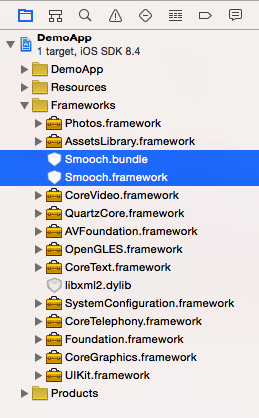
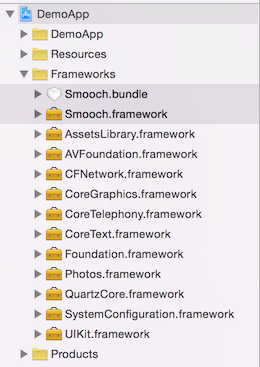
Update ios installation instructions for v3.1

diff --git a/source/includes/_adding_smooch_ios.md b/source/includes/_adding_smooch_ios.md
@@ -29,26 +29,26 @@ Remember — when you use CocoaPods to manage your app's dependencies, you have 
 </aside>
 
 ## Manual Method
-First, grab a copy of Smooch by [downloading the most recent release](https://github.com/smooch/smooch-ios/archive/master.zip) or visiting our [GitHub page](https://github.com/smooch/smooch-ios).
 
-Next, add the SDK to your XCode project by dragging both Smooch.framework and Smooch.bundle into your project as shown below.
+1. First, grab a copy of Smooch by [downloading the most recent release](https://github.com/smooch/smooch-ios/archive/master.zip) or visiting our [GitHub page](https://github.com/smooch/smooch-ios).
 
+1. Next, add the SDK to your XCode project by dragging both Smooch.framework and Smooch.bundle into your project as shown below.
 ![Dependencies in XCode](/images/dependencies.png)
 
-Now you'll have to add Smooch's dependencies to your project if they're not already linked in. Go to "Build phases" in your project's target and select "Link Binary With Libraries":
-
+1. Now you'll have to add Smooch's dependencies to your project if they're not already linked in. Go to "Build phases" in your project's target and select "Link Binary With Libraries":
+ * AssetsLibrary.framework
+ * AVFoundation.framework
+ * CFNetwork.framework
  * CoreGraphics.framework
  * CoreTelephony.framework
  * CoreText.framework
  * Foundation.framework
+ * Photos.framework
  * QuartzCore.framework
  * SystemConfiguration.framework
  * UIKit.framework
- * AssetsLibrary.framework
- * Photos.framework
- * AVFoundation.framework
-
- Smooch should now be available to your app and you're ready to add the necessary code to [initialize Smooch in your app](#initialize-smooch-in-your-app).
+1. Add the `-licucore` option to your app's `Other Linker Flags` build setting.
+1. Smooch should now be available to your app and you're ready to add the necessary code to [initialize Smooch in your app](#initialize-smooch-in-your-app).
 
 ## Import the Smooch header file
 
